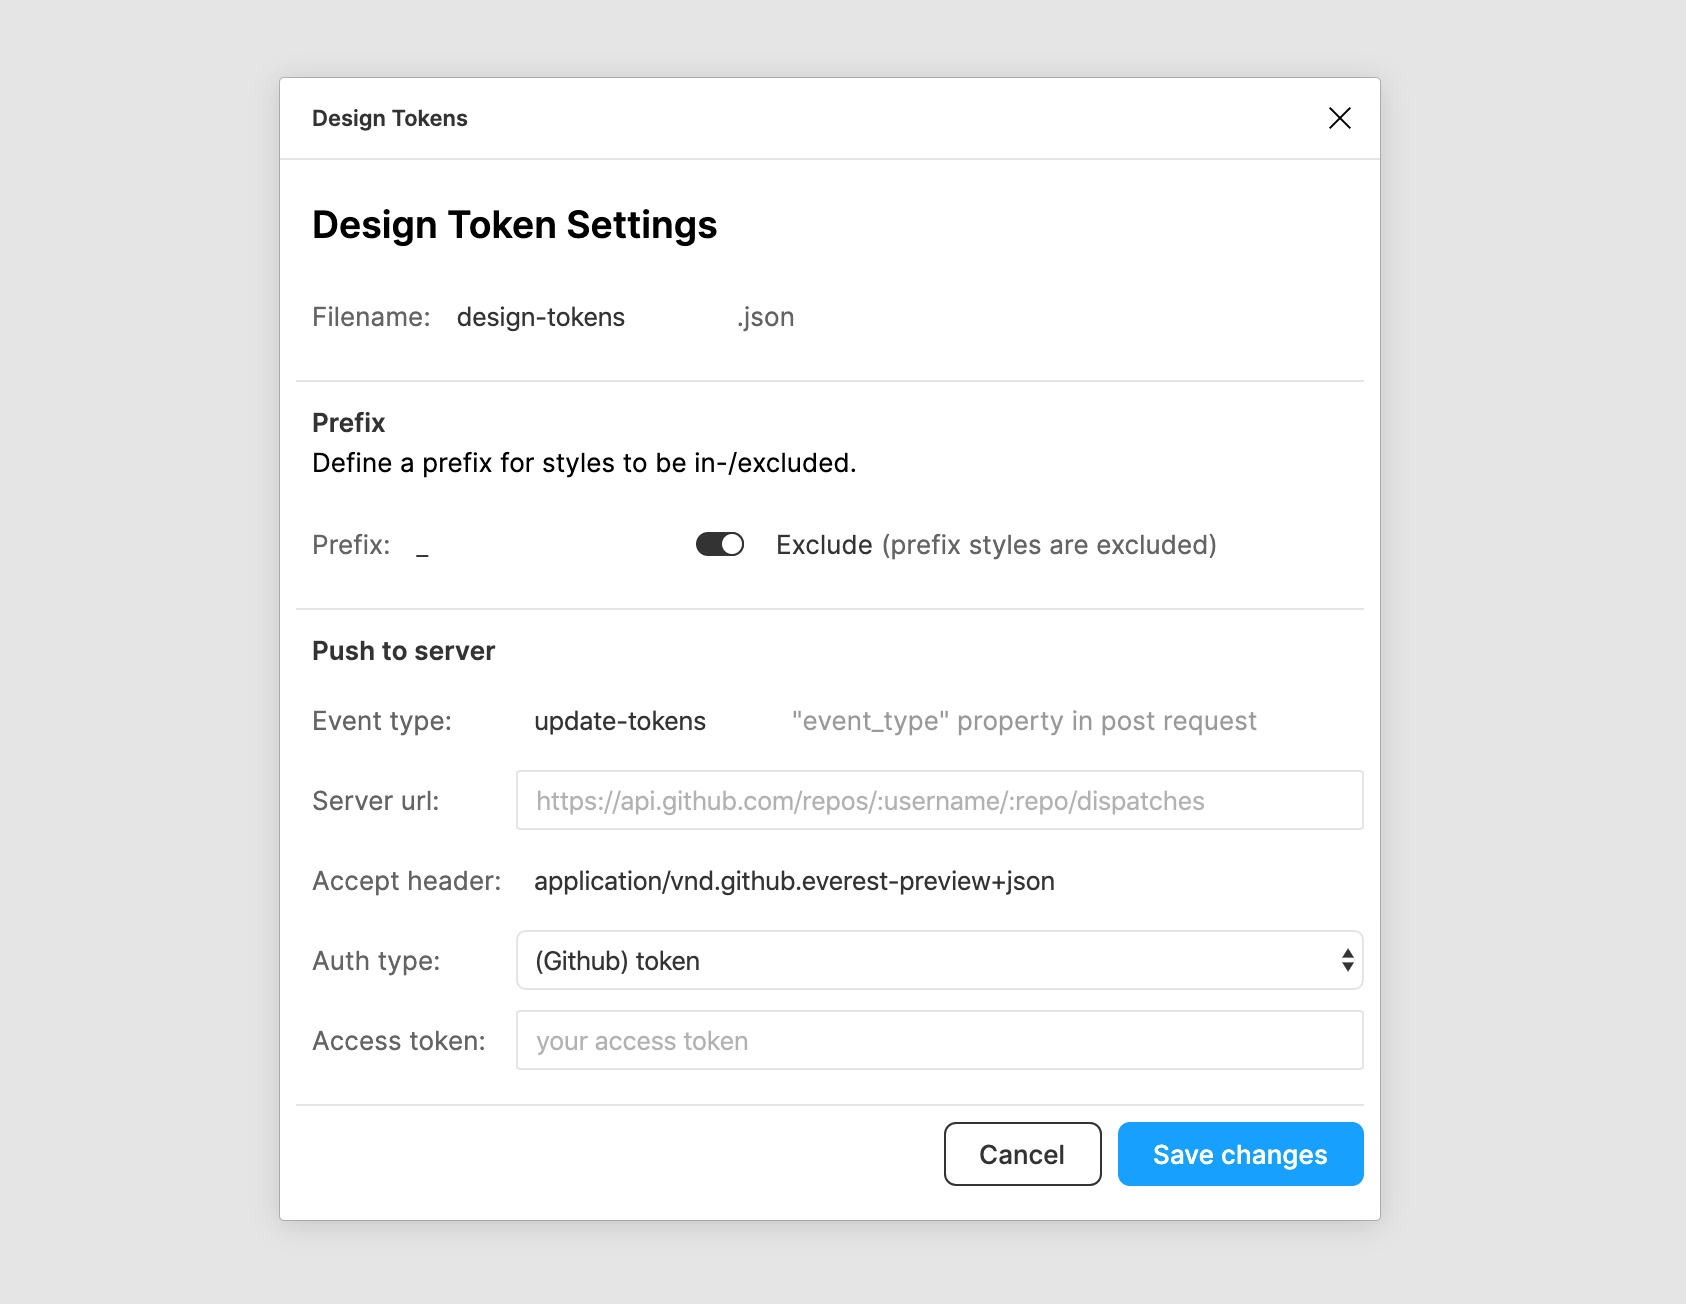
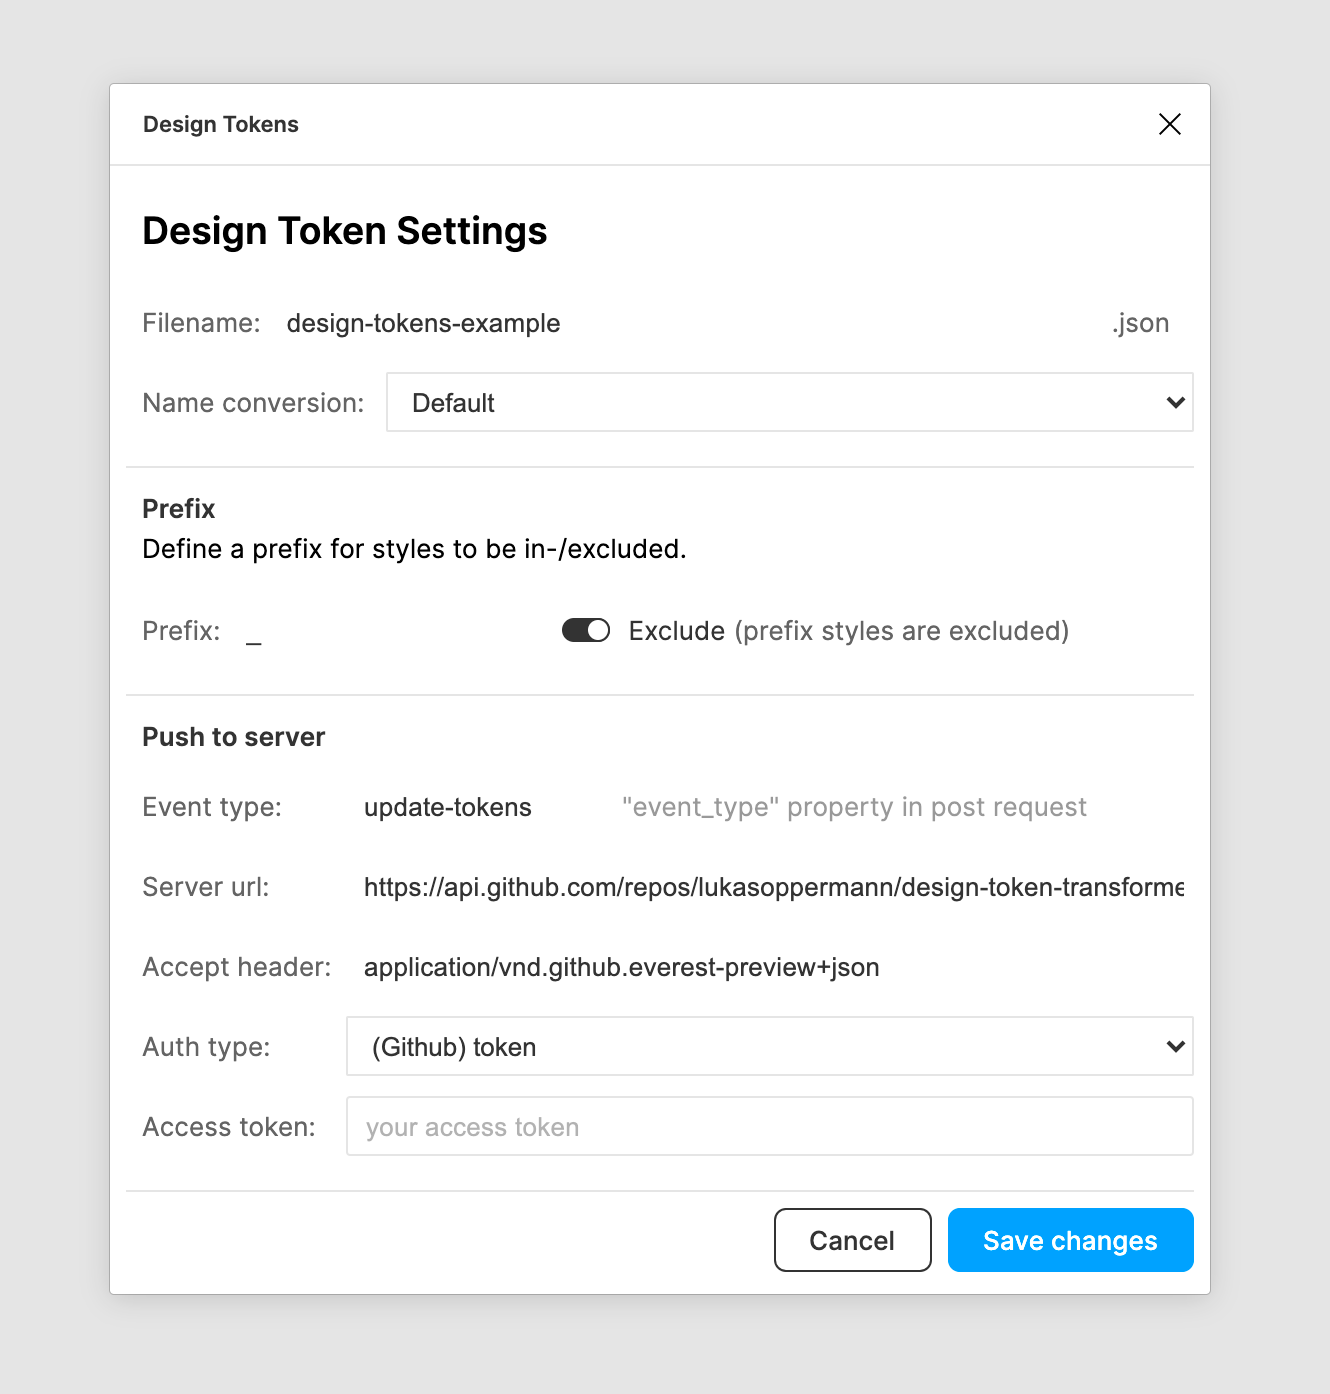
updated settings picture and added new option to readme

Changed region(s): [[0.0617, 0.0613, 0.9248, 0.9509], [0.4316, 0.2454, 0.4624, 0.2761]]

diff --git a/README.md b/README.md
@@ -205,6 +205,13 @@ To allow for maximum customizability I decided to provide all values that Figma 
 This allows you to define the file name that is used when exporting tokens. The `.json` extension will be automatically appended to the name.
 The filename will also be send to the server when sending design tokens to the server.
 
+### Name Conversion
+This option allows you to define how the token names will be converted when they are store in the json file, the available options are:
+
+- `Default` – spaces from the beginning and end are removed and the name is converted to lowercase
+- `camelCase` - spaces from the beginning and end are removed and the name is converted to [camelCase](https://en.wikipedia.org/wiki/Camel_case)
+- `kebab-case`  - spaces from the beginning and end are removed and the name is converted to kebab-case
+
 ### Prefix (used to in-/exclude styles)
 #### **Prefix**
 You can change the prefix from `_` to anything, e.g. `_tokens`.   
